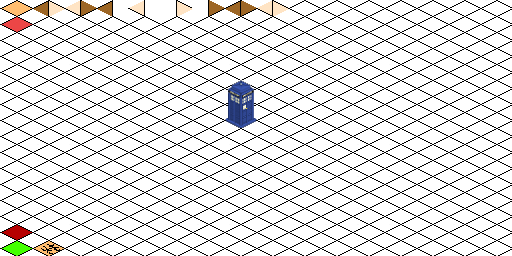
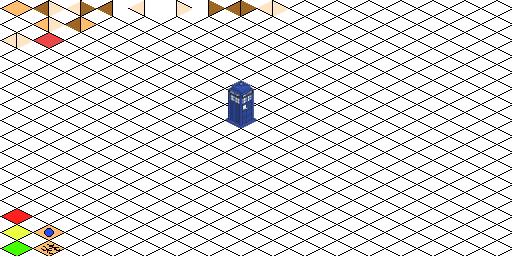
Now entrance is a tile and we recognize walls

Changed region(s): [[0.0, 0.0625, 0.1875, 0.1875], [0.0, 0.8125, 0.125, 0.9375], [0.125, 0.0, 0.1875, 0.0312]]

diff --git a/main.js b/main.js
@@ -30,24 +30,30 @@ define([
         return tilesets.tileproperties[tileGid - tilesets[i - 1].firstgid];
     }
 
-    function setPlayerEntryCoords(player, level) {
-        var entry = level.layers[level.layers.length - 1].objects.filter(function (obj) {
-            return obj.name === 'Entry';
+    function getTileByType(level, type) {
+        var tileProps = level.tilesets[0].tileproperties;
+        var tile = Object.keys(tileProps).filter(function (tileId) {
+            return tileProps[tileId] && tileProps[tileId].type === type;
         })[0];
 
-        player.x = ((entry.x + 0.5 * entry.width) / level.tileheight) | 0
-        player.y = ((entry.y + 0.5 * entry.height) / level.tileheight) | 0
+        return tile && (parseInt(tile, 10));
     }
 
-    function getExitCoords(level) {
-        var exit = level.layers[level.layers.length - 1].objects.filter(function (obj) {
-            return obj.name === 'Exit';
-        })[0];
+    function tileIsNotWall(layerId, level, x, y) {
+        return level.layers[layerId].data[y * level.width + x] !== getTileByType(level, 'wall') + 1;
+    }
 
-        return {
-            x: ((exit.x + 0.5 * exit.width) / level.tileheight) | 0,
-            y: ((exit.y + 0.5 * exit.height) / level.tileheight) | 0
-        };
+    function setPlayerEntryCoords(player, level) {
+        var entranceTile = getTileByType(level, 'entrance');
+
+        console.log(entranceTile);
+
+        var entranceTileIdx = level.layers[0].data.indexOf(entranceTile + 1);
+
+        console.log(entranceTileIdx);
+
+        player.x = entranceTileIdx % level.width;
+        player.y = (entranceTileIdx / level.width) | 0;
     }
 
     jsonLoad([levelFile]).then(function (res) {
@@ -69,19 +75,9 @@ define([
             console.log(imgRes);
             var context = CanvasControl.create('canvas', 640, 480);
             var layers = level.layers.map(function (layer) {
-                if (layer.type == "objectgroup") {
-                    return {
-                        getType: function () {
-                            return "objectgroup";
-                        },
-
-                        objects: layer.objects
-                    };
-                }
-
                 var l = new TileField(context, 640, 480);
                 l.setup({
-                    layout: layer.data && layer.data.map(function (i) { return i - 1; }),
+                    layout: layer.data.map(function (i) { return i - 1; }),
                     graphics: imgRes[0].files,
                     graphicsDictionary: imgRes[0].dictionary,
                     tileWidth: level.tilewidth,
@@ -116,11 +112,10 @@ define([
                         var pc = layers[0].getTilePos(player.x, player.y);
                         context.drawImage(player.img, pc.x, pc.y);
                     }
-                    if (layer.getType() !== 'objectgroup') {
-                        for (var x = 0; x < level.width; ++x) {
-                            for (var y = 0; y < level.height; ++y) {
-                                layer.draw(x, y);
-                            }
+                    if (i >= 1) return;
+                    for (var x = 0; x < level.width; ++x) {
+                        for (var y = 0; y < level.height; ++y) {
+                            layer.draw(x, y);
                         }
                     }
                 });
@@ -134,25 +129,25 @@ define([
                 if (!pressed) {
                     switch (key) {
                         case 38: // arrow up
-                            console.log('up');
-                            player.y = clamp(player.y - 1, 0, level.height - 1);
+                            if (tileIsNotWall(0, level, player.x, clamp(player.y - 1, 0, level.height - 1))) {
+                                player.y = clamp(player.y - 1, 0, level.height - 1);
+                            }
                             break;
                         case 40: // arrow down
-                            console.log('down');
-                            player.y = clamp(player.y + 1, 0, level.height - 1);
+                            if (tileIsNotWall(0, level, player.x, clamp(player.y + 1, 0, level.height - 1))) {
+                                player.y = clamp(player.y + 1, 0, level.height - 1);
+                            }
                             break;
                         case 37: // arrow left
-                            console.log('left');
-                            player.x = clamp(player.x - 1, 0, level.width - 1);
+                            if (tileIsNotWall(0, level, clamp(player.x - 1, 0, level.width - 1), player.y)) {
+                                player.x = clamp(player.x - 1, 0, level.width - 1);
+                            }
                             break;
                         case 39: // arrow right
-                            console.log('right');
-                            player.x = clamp(player.x + 1, 0, level.width - 1);
+                            if (tileIsNotWall(0, level, clamp(player.x + 1, 0, level.width - 1), player.y)) {
+                                player.x = clamp(player.x + 1, 0, level.width - 1);
+                            }
                             break;
-                    }
-                    var exit = getExitCoords(level);
-                    if (exit.x === player.x && exit.y == player.y) {
-                        console.log('Exit!');
                     }
                 }
             });
